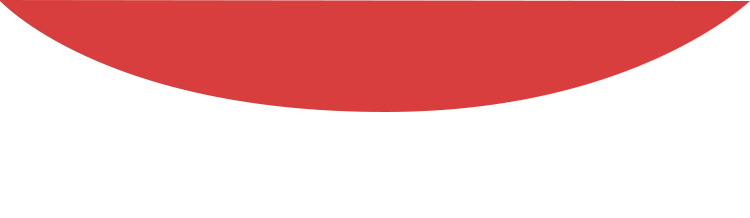
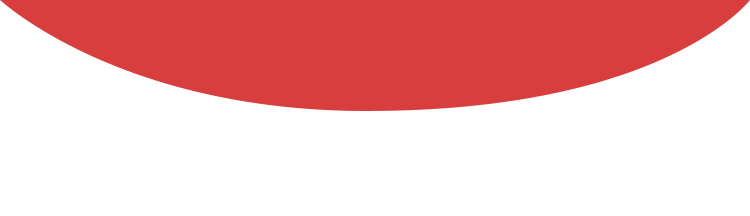
红包详情 日期工具修改

diff --git a/src/components/RpDetailHeader.js b/src/components/RpDetailHeader.js
@@ -34,7 +34,7 @@ const RpDetailHeader = props => {
         background_container: {
             backgroundColor: colors.white,
             width:ScreenUtils.width,
-            height:ScreenUtils.height/2 -40,
+            height:ScreenUtils.height/6*2 + 60,
             alignItems:'center'
         },
 
@@ -44,14 +44,19 @@ const RpDetailHeader = props => {
             backgroundColor:colors.rp_bg_def,
             alignItems:'center'
         },
+        bottom_View:{
+            width:ScreenUtils.width,
+            height:60,
+            backgroundColor:colors.white,
+            alignItems:'center'
+        },
 
         mid_Image:{
             width:ScreenUtils.width,
-            height:itemHeight-4,
+            height:itemHeight,
             resizeMode:'cover',
             backgroundColor:colors.white,
             alignItems:'center',
-            justifyContent:'flex-end'
         },
 
         middle_container: {
@@ -64,7 +69,7 @@ const RpDetailHeader = props => {
             marginTop:30,
             fontSize:15,
             color:'#fbd49d',
-            flex:1,
+            width:ScreenUtils.width - 120,
             textAlign:'center',
             backgroundColor:'transparent',
         },
@@ -78,22 +83,23 @@ const RpDetailHeader = props => {
             width: imgWidth,
             height:imgWidth,
             borderRadius: imgWidth/2,
+            marginTop:15,
         },
         maxImg: {
-            width: imgHeight,
-            height:imgHeight*0.6,
+            width: 50,
+            height:50,
             marginRight:10,
             resizeMode:'contain'
         },
         from_value: {
-            marginTop:15,
+            marginTop:10,
             fontSize:18,
             color:colors.black
         },
         state_value: {
-            marginBottom:15,
-            fontSize:15,
-            color:colors.one_color
+            marginTop:10,
+            fontSize:12,
+            color:'#5870AB'
         },
         amount_bg:{
             flexDirection:'row',
@@ -119,9 +125,9 @@ const RpDetailHeader = props => {
         <View style = {styles.background_container} >
             <View style = {styles.top_View}>
                 <View style = {styles.middle_container}>
-                    <View style={{flex:1}} />
+                    <View style={{width:60}} />
                     <Text style={styles.remark_value} numberOfLines={1}>{remarkValue}</Text>
-                    <View style={{flex:1,alignItems:"flex-end",backgroundColor:'transparent'}}>
+                    <View style={{width:60,alignItems:"flex-end",backgroundColor:'transparent'}}>
                         <Image style = {styles.maxImg} source = {isMax?require("../res/img/rp_max_text.png"):' '} ></Image>
                     </View>
 
@@ -136,8 +142,10 @@ const RpDetailHeader = props => {
                 <Image style = {styles.iconImg} source = {{uri:imgIconUrl}} ></Image>
             </Image>
 
-            <Text style={styles.from_value}>来自{fromValue}的大红包</Text>
-            <Text style={styles.state_value}>{amountValue==0?'':stateValue}</Text>
+            <View style = {styles.bottom_View}>
+                <Text style={styles.from_value}>来自{fromValue}的大红包</Text>
+                <Text style={styles.state_value}>{amountValue==0?'':stateValue}</Text>
+            </View>
         </View>
     );
 };

diff --git a/src/page/RpDetailPage.js b/src/page/RpDetailPage.js
@@ -18,6 +18,7 @@ import CommonItemTwo from '../components/CommonItemTwo'
 import RpDetailHeader from '../components/RpDetailHeader'
 import CommonButton from '../components/CommonButton'
 import ImageButton from '../components/ImageTitleButton'
+import ButtonNormal from '../components/ButtonNormal'
 import ApiManager from '../utils/ApiManager'
 import ScreenUtils from '../utils/ScreenUtils'
 import RefreshList, {RefreshStatus} from "../components/RefreshList";
@@ -93,7 +94,7 @@ class RpDetailPage extends BasePage {
                                middleUpValue={item.robberName} middleBottomValue={DateUtils.mmDdHhMmDateFmt(item.createTimeMs)}
                                rightUpValue={FormatUtils.money(item.luckyAmount)}
                                isLine={true}
-                               imgIconUrl={item.luckyFlag==1?require("../res/img/rp_max_num.png"):' '} />
+                               imgIconUrl={item.luckyFlag==3?require("../res/img/rp_max_num.png"):' '} />
             </View>
         )
 
@@ -135,16 +136,15 @@ class RpDetailPage extends BasePage {
         if(this.state.dataDetail.ownerBool == false){
             return (
                 <Image style = {styles.bg_bottom} source = {require("../res/img/rp_shadow.png")}>
-                    <ImageButton value='我也要发红包' style={{marginTop:2,marginBottom:2,flex:1,backgroundColor:'#f9f9f9'}} textColor = {colors.one_color} icon = {require("../res/img/rp_giveRp.png")} onPress={()=>this._pushSendRpPage()}/>
+                    <ImageButton value='我也要发红包' style={{marginTop:1,marginBottom:1,flex:1,backgroundColor:'#f9f9f9'}} textColor = {colors.one_color} icon = '' onPress={()=>this._pushSendRpPage()}/>
                 </Image>
             )
         }else{
             return (
-                <Image style = {styles.bg_bottom} source = {require("../res/img/rp_shadow.png")}>
-                    <ImageButton value='分享该红包' style={{marginTop:2,marginBottom:2,flex:1,backgroundColor:'#f9f9f9'}} textColor = {colors.one_color} icon = {require("../res/img/rp_share.png")} onPress={()=>this._pushSendRpPage()}/>
-                    <View style={{marginTop:2,width:1,backgroundColor:colors.divider }}/>
-                    <ImageButton value='我也要发红包' style={{marginTop:2,marginBottom:2,flex:1,backgroundColor:'#f9f9f9'}} textColor = {colors.one_color} icon = {require("../res/img/rp_giveRp.png")} onPress={()=>this.pushRecordPage()}/>
-                </Image>
+                <View style = {styles.bg_bottom}>
+                    <ImageButton value='我也要发红包' style={{marginTop:1,marginBottom:1,flex:1,backgroundColor:'#f9f9f9'}} textColor = {colors.one_color} icon = '' onPress={()=>this._pushSendRpPage()}/>
+                    <ImageButton value='分享该红包' style={{marginTop:0,marginBottom:0,flex:1,backgroundColor:colors.one_color}} textColor = {colors.white} icon = '' onPress={()=>this.pushRecordPage()}/>
+                </View>
             )
         }
 
@@ -191,7 +191,7 @@ const styles = StyleSheet.create({
         width:ScreenUtils.width,
         marginTop:0,
         flexDirection:'row',
-        resizeMode:'cover'
+        backgroundColor:colors.divider
     }
 });
 

diff --git a/src/components/ImageTitleButton.js b/src/components/ImageTitleButton.js
@@ -25,7 +25,7 @@ const ImageTitleButton = props => {
             fontSize: 15,
         },
         container:{
-            backgroundColor:colors.page_background,
+            backgroundColor:colors.backgroundColor,
             height: 50,
             flexDirection:'row',
             justifyContent:'center',
@@ -42,11 +42,22 @@ const ImageTitleButton = props => {
         }
     });
 
+    renderImage=()=>{
+        if(icon == '')
+        {
+            return null;
+        }else
+        {
+            console.log('<~~~~~>');
+           return <Image style = {styles.imgIcon} source={icon}></Image>
+
+        }
+    }
+
     return (
         <TouchableOpacity {...attributes}>
             <View style={styles.container}>
-                <Image style = {styles.imgIcon} source={icon}></Image>
-
+                {this.renderImage()}
                 <Text style={styles.value}>
                     {value}
                 </Text>

diff --git a/src/utils/DateUtils.js b/src/utils/DateUtils.js
@@ -74,7 +74,10 @@ isToYear = (date = new Date()) => {
 getRecentDate = (timestamp) => {
     let date = new Date(timestamp);
     if (isToday(date)) {//当天
-        return date.getMinutes() <= 59 ? `${date.getMinutes()}分钟前` : dateFmt("HH:mm", date);
+        let nowDate = new Date();
+        console.log(nowDate.getTime() + '~~~~~~' + timestamp);
+        let con = (nowDate.getTime() - timestamp)/1000/60;
+        return con <= 59 ? `${Math.ceil(con)}分钟前` : dateFmt("HH:mm", date);
     } else if (isYesterday(date)) {//昨天
         return `昨天${dateFmt("HH:mm", date)}`;
     } else if (isToYear(date)) {//今年
